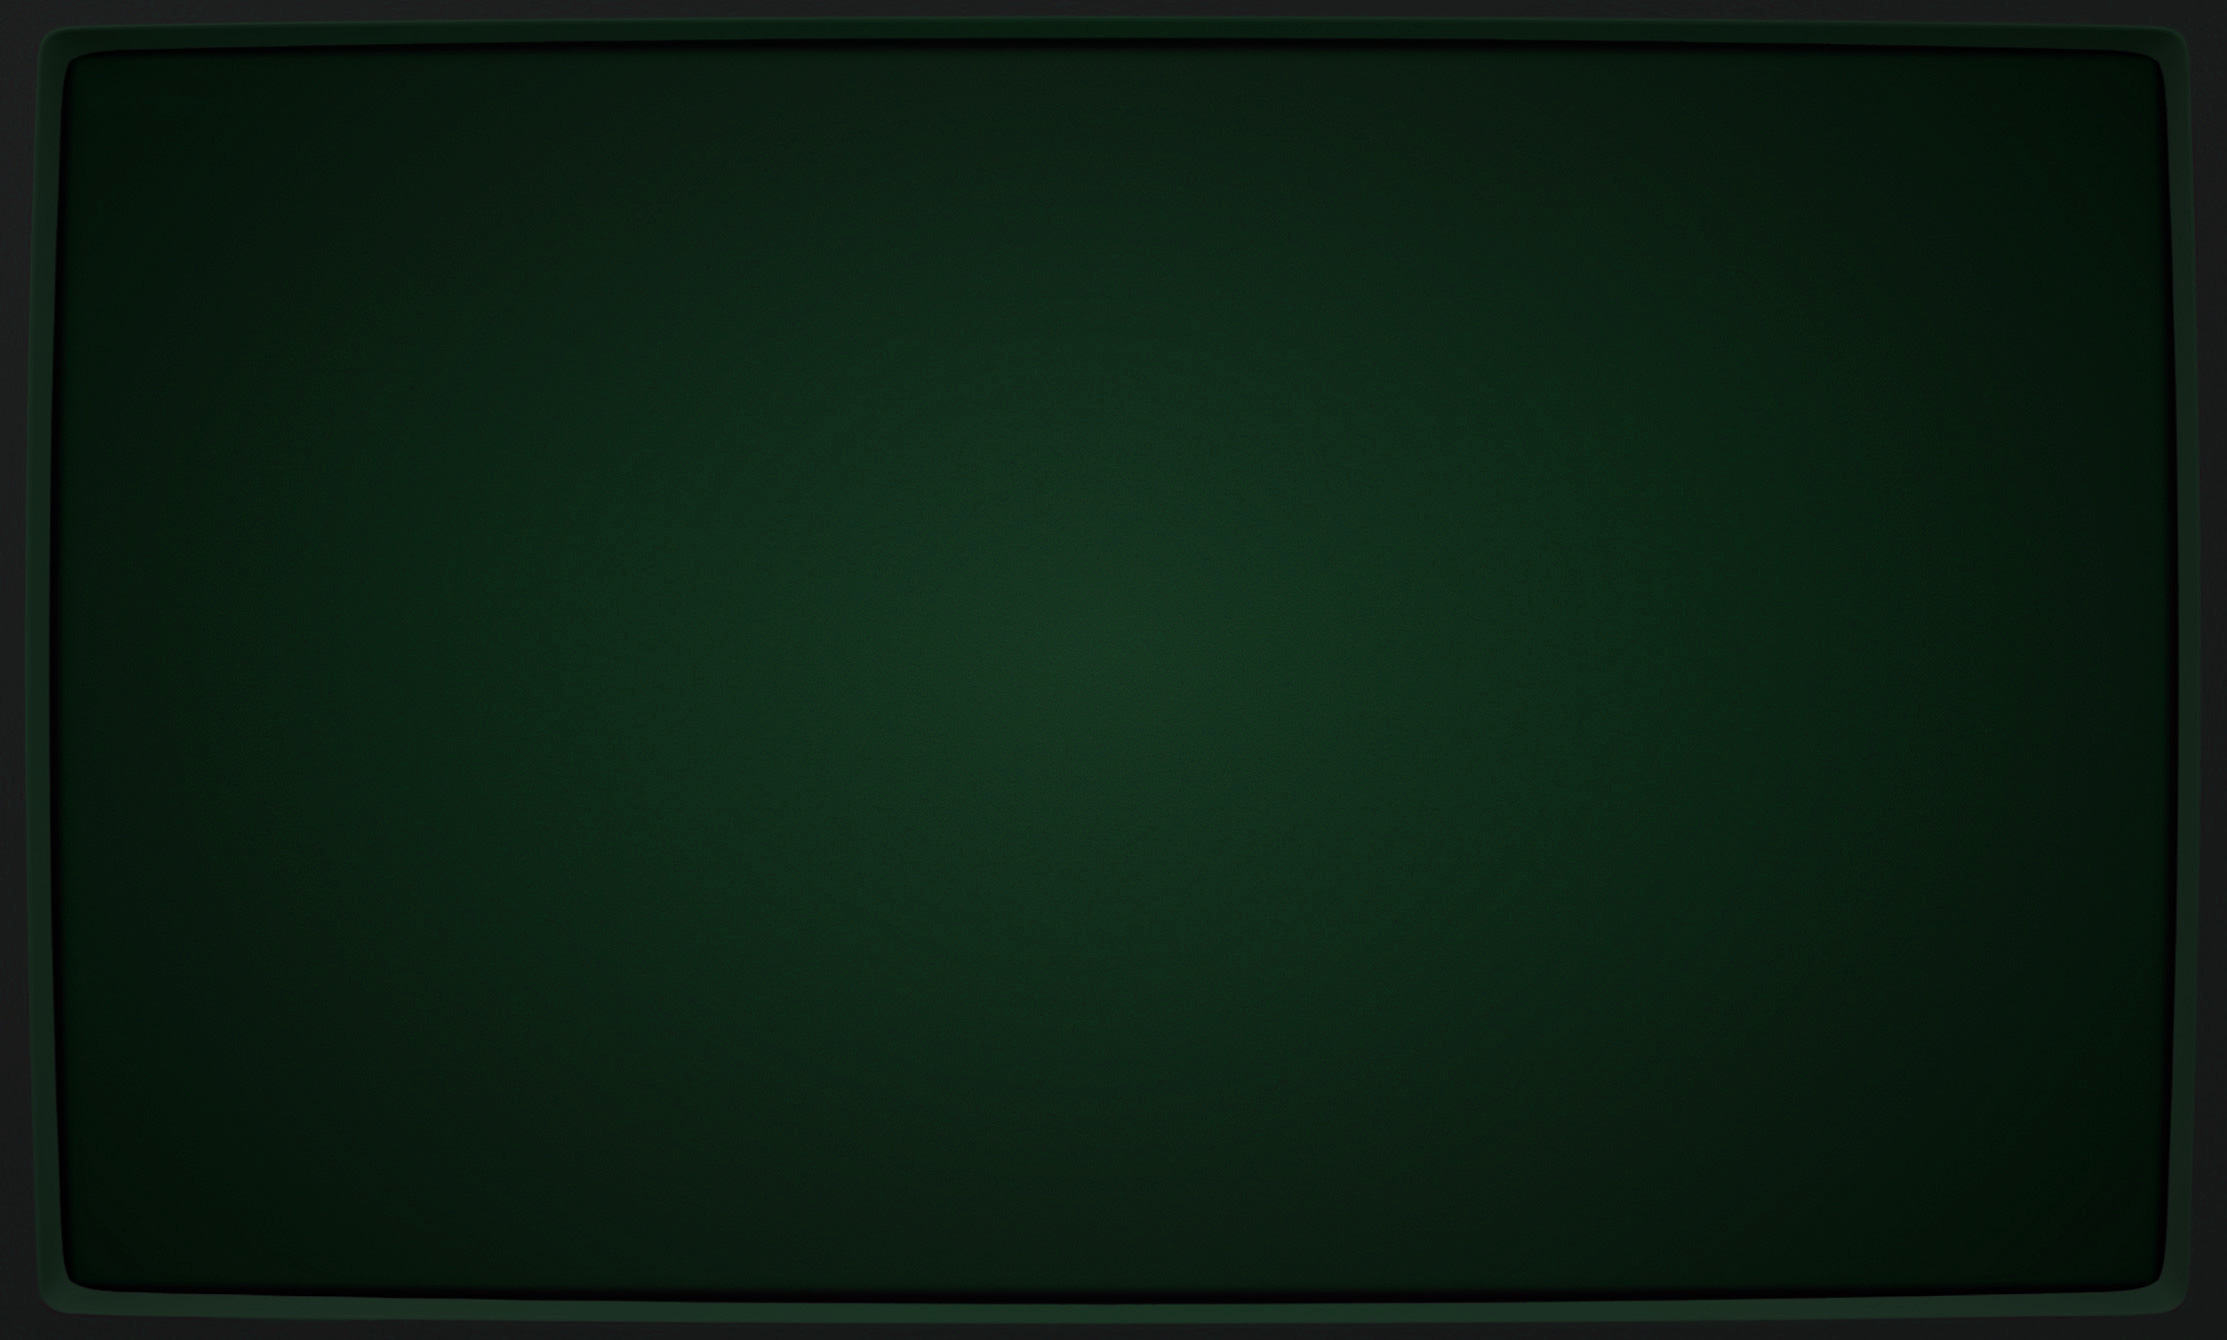
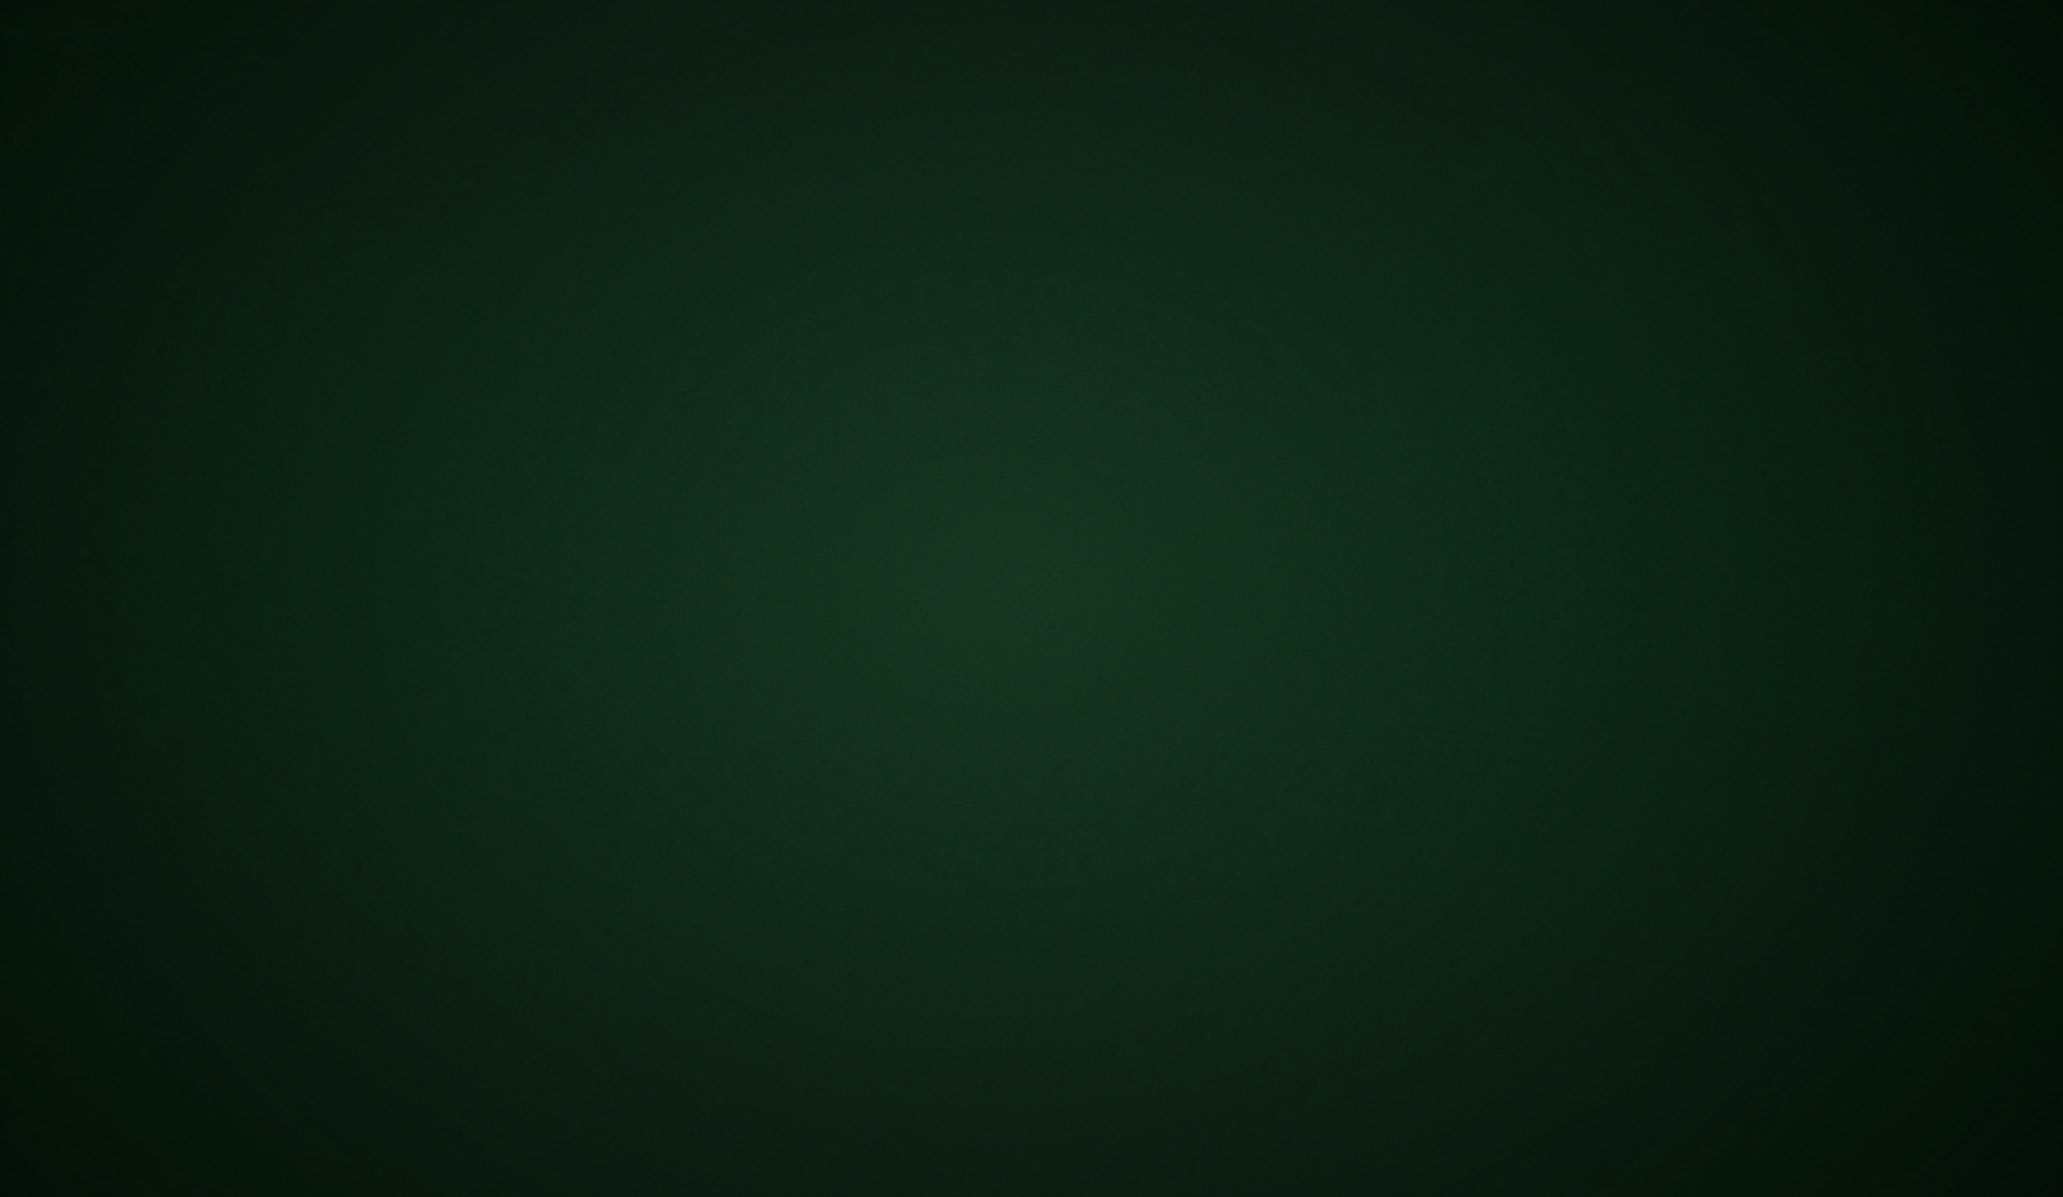
Improve logic; Fix mobile display and inability to scroll

diff --git a/src/sass/_switches.scss b/src/sass/_switches.scss
@@ -22,30 +22,35 @@ $ease-in-quint:cubic-bezier(0.755, 0.050, 0.855, 0.060);
   animation-fill-mode:forwards;
 }
 
-#switch:checked~.container>.terminal-content{
-  animation: turn-on 1.5s linear;
-  animation-fill-mode:forwards;
-}
-
-#switch:checked~.container .overlay{
-  animation:overlay-anim 5s linear;
-  animation-fill-mode:forwards;
-}
-
-@media (min-width: $bp-tablet) {
-  #switch:checked {
-    ~.wrapper {
-      max-height: 100vh;
+#switch:checked {
+  &~.container {
+    &>.terminal-content{
+      animation: turn-on 1.5s linear;
+      animation-fill-mode:forwards;
     }
 
-    &~.crt .crt-glow {
-      display: block;
-
-      &.screen-on {
-        animation: fade_from_black 1s linear;
-        animation-fill-mode: forwards;
-      }
+    .overlay{
+      animation:overlay-anim 5s linear;
+      animation-fill-mode:forwards;
     }
+  }
+
+  &~.wrapper {
+    max-height: 100vh;
+    overflow-y: auto;
+  }
+
+  &~.crt .crt-glow {
+    display: block;
+
+    &.screen-on {
+      animation: fade_from_black 1s linear;
+      animation-fill-mode: forwards;
+    }
+  }
+
+  &~.crt-effects {
+    display: block;
   }
 }
 

diff --git a/src/sass/_base.scss b/src/sass/_base.scss
@@ -20,6 +20,7 @@ html, body {
 
 body {
   background: var(--primary-crt-bg-url) no-repeat center fixed $color-grey-dark;
+  background-size: cover;
   color: var(--primary-color);
   text-shadow: 0px 1px 4px var(--primary-text-glow-color);
   font-family: VT220, mono, Monospace;
@@ -235,9 +236,12 @@ input[type=text]:focus {
 }
 
 .wrapper {
-  max-height: 0;
   padding: 20px;
   transition: max-height 720ms linear;
+
+  @media (min-width: $bp-tablet) {
+    max-height: 0;
+  }
 }
 
 .terminal-content {
@@ -330,6 +334,11 @@ footer {
     word-wrap: break-word;
     cursor: not-allowed;
     line-height: 1;
+  }
+
+  a:hover {
+    color: $color-black;
+    text-shadow: 1px 1px 0 #000;
   }
 }
 

diff --git a/src/sass/_crt.scss b/src/sass/_crt.scss
@@ -32,11 +32,15 @@ $screen-background:#121010;
     left: 0;
     background-image: var(--primary-crt-frame-url);
     background-size: 100% 100%;
+
+    @media (max-width: $bp-tablet) {
+      display: none;
+    }
   }
 
   .crt-glow {
     content:'';
-    display:block;
+    display: block;
     position:absolute;
     z-index: -1;
     top:0;
@@ -54,6 +58,7 @@ $screen-background:#121010;
 }
 
 .crt-effects {
+  display: none;
   pointer-events: none;
   position: fixed;
   top: 0;

diff --git a/src/sass/_animations.scss b/src/sass/_animations.scss
@@ -21,7 +21,7 @@
     background: rgba(0, 0, 0, 0);
   }
   100% {
-    background: rgba(0, 0, 0, .7);
+    background: rgba(0, 0, 0, 0.7);
   }
 }
 
